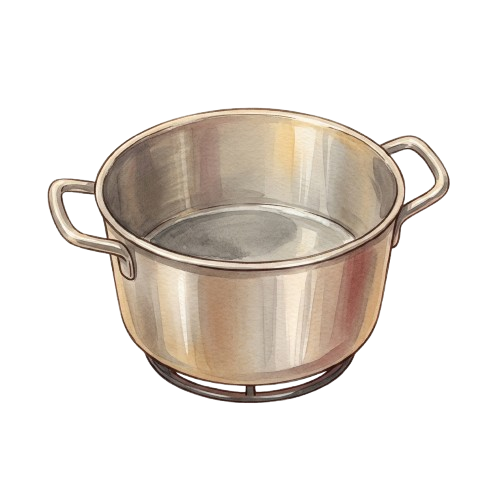
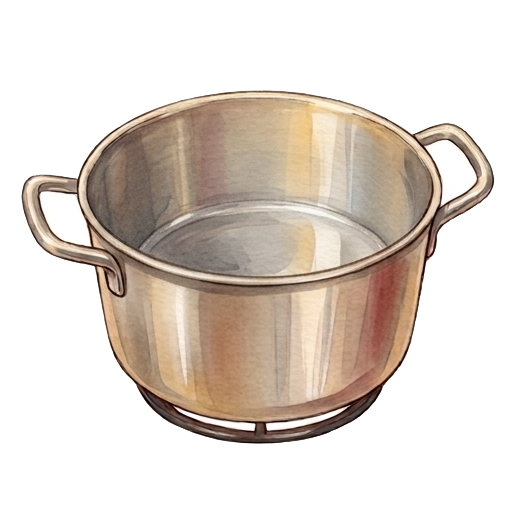
라면 끓이기: 빈 냄비를 같은 구도 그림으로 교체하고 냄비 9장이 장면 폭 92% 한 상자를 공유하도록 배치, 불꽃은 냄비 앞 받침 높이로, 기포·김·반짝임도 % 좌표로 재배치

Changed region(s): [[0.03, 0.15, 0.99, 0.87]]

diff --git a/19.ramen-timing-game.html b/19.ramen-timing-game.html
@@ -145,22 +145,22 @@
   /* 냄비 장면: 200×190 좌표계를 %로 옮긴 이미지 레이어 스택 (아래→위: 불꽃·냄비·물·면·기포·토핑·탐·김) */
   .scene{width:100%;aspect-ratio:200/190;display:block;cursor:pointer;position:relative;overflow:visible}
   .scene img,.scene .layer{position:absolute;display:block;object-fit:contain;pointer-events:none;user-select:none;-webkit-user-drag:none}
-  .scene .potimg{left:6%;top:9%;width:88%;height:82%}   /* 빈 냄비(그림 각도가 달라 상자를 따로 잡음) */
-  /* 물·면·토핑·탐은 내용물까지 그려진 냄비 통짜 그림(pot-water / pot-water-noodle / pot-water-full / pot-burnt)으로
-     빈 냄비 위에 덮어 씌운다. 512 캔버스 안의 냄비가 빈 냄비 그림보다 크게 그려져 있어 상자를 따로 잡아 크기를 맞춘다 */
-  .scene .state{left:19.75%;top:19.5%;width:60.5%;height:63.7%;display:none}   /* 한 번에 한 장만 보인다(JS 가 고른다) */
-  .scene .state.row2{top:20.6%}   /* 시트 아랫줄 그림은 9px 위에 그려져 있어 보정 */
+  /* 냄비 그림 9장은 모두 같은 512 캔버스·같은 구도라 한 상자를 공유한다. 장면 폭에 거의 꽉 차게 잡아
+     카드가 작은 기기에서도 냄비가 작아 보이지 않게 하고, 모든 위치는 % 라 기기 크기와 무관하게 같은 비율을 유지한다 */
+  .scene .state{left:4%;top:12%;width:92%;height:96.8%;display:none}   /* 한 번에 한 장만 보인다(JS 가 고른다) */
+  .scene .state.row2{top:13.7%}   /* 시트 아랫줄 그림은 9px 위에 그려져 있어 보정 */
   /* 너무 오래 끓을 때 국물 색이 탁해지는 오버레이 (냄비 입구 타원에만) */
-  .scene .tint{left:29.4%;top:34.8%;width:43.6%;height:17.2%;border-radius:50%;
+  .scene .tint{left:18.7%;top:35.2%;width:66.3%;height:26.1%;border-radius:50%;
     background:var(--tint,transparent);mix-blend-mode:multiply;transition:background .4s}
-  .scene .rimglow{left:28.4%;top:33.8%;width:45.6%;height:19.2%;border-radius:50%;opacity:0;pointer-events:none}
+  .scene .rimglow{left:17.7%;top:34.2%;width:68.3%;height:28.1%;border-radius:50%;opacity:0;pointer-events:none}
   .btns{display:grid;grid-template-columns:1fr 1fr;gap:6px}
   .btns .btn{min-height:44px;padding:0 4px;font-size:13px}
   .btns .btn.done{opacity:.25;text-decoration:line-through}
 
   /* ---------- 불꽃 ---------- */
-  .flame{width:26%;height:30%;bottom:9%;transform-origin:50% 100%;animation:flick .35s ease-in-out infinite alternate}
-  .flame.f1{left:26%}.flame.f2{left:37%;height:36%;animation-duration:.42s;animation-delay:.1s}.flame.f3{left:48%;animation-duration:.3s;animation-delay:.2s}
+  /* 냄비 그림이 장면을 거의 다 덮으므로 불꽃은 냄비 앞(z-index)에서 받침 고리 높이에 낮게 깐다 */
+  .flame{width:24%;height:22%;bottom:-3%;z-index:2;transform-origin:50% 100%;animation:flick .35s ease-in-out infinite alternate}
+  .flame.f1{left:26%}.flame.f2{left:38%;height:26%;animation-duration:.42s;animation-delay:.1s}.flame.f3{left:50%;animation-duration:.3s;animation-delay:.2s}
   @keyframes flick{from{transform:scaleY(.85) skewX(-4deg)}to{transform:scaleY(1.12) skewX(4deg)}}
   .pot.off .flame{opacity:0;transition:opacity .3s}
 
@@ -175,8 +175,8 @@
   @keyframes rise{0%{transform:translateY(0) scale(.5);opacity:0}20%{opacity:.9}100%{transform:translateY(-58px) scale(1.1);opacity:0}}
 
   /* ---------- 김 / 연기 ---------- */
-  .steam{opacity:0;transform-origin:center;width:16%;height:20%;top:18%}
-  .steam.s1{left:32%}.steam.s2{left:44%;top:16%;width:18%}.steam.s3{left:56%}
+  .steam{opacity:0;transform-origin:center;width:20%;height:24%;top:14%}
+  .steam.s1{left:26%}.steam.s2{left:40%;top:11%;width:22%}.steam.s3{left:56%}
   .pot.ready .steam,.pot.late .steam,.pot.burnt .steam{animation:steam 1.4s ease-out infinite}
   .steam.s2{animation-delay:.45s !important}.steam.s3{animation-delay:.9s !important}
   @keyframes steam{0%{transform:translateY(0) scale(.6);opacity:0}30%{opacity:.7}100%{transform:translateY(-48px) scale(1.5);opacity:0}}
@@ -184,7 +184,7 @@
 
   /* ---------- 테두리 반짝 ---------- */
   .pot.ready .rimglow{opacity:1;box-shadow:0 0 0 3px var(--ready),0 0 14px 4px var(--ready);animation:glow .35s ease-in-out infinite alternate}
-  .pot.ready .potimg,.pot.ready .state{filter:drop-shadow(0 0 6px var(--ready))}
+  .pot.ready .state{filter:drop-shadow(0 0 6px var(--ready))}
   @keyframes glow{from{opacity:.5}to{opacity:1}}
   .pot.ready{box-shadow:0 0 0 3px var(--ready)}
   .pot.error{box-shadow:0 0 0 3px var(--bad)}
@@ -343,8 +343,9 @@ function potSVG(i){
   let bubbles = "";
   for (let k=0;k<14;k++){
     const cx = 62 + (k*37)%76, cy = 118 - (k*13)%18, r = 2 + (k%3);
-    const d = r*2.6, left = (cx-d/2)/2, top = (cy-22-d/2)/1.9;
-    bubbles += `<img class="bub" src="${IMG}bubble.png" alt="" width="159" height="159" style="left:${left}%;top:${top}%;width:${d/2}%;height:${d/1.9}%">`;
+    /* 냄비 그림이 장면 폭의 92% 라 x 는 중심(100) 기준 1.52배로 벌리고, y 는 물 표면 높이로 내린다 */
+    const d = r*3.6, left = 50 + (cx-100)*0.76 - d/2, top = (cy-5)/1.9 - d/2;
+    bubbles += `<img class="bub" src="${IMG}bubble.png" alt="" width="159" height="159" style="left:${left}%;top:${top}%;width:${d}%;height:${d*1.05}%">`;
   }
   return `
   <div class="scene" aria-hidden="true">
@@ -353,7 +354,7 @@ function potSVG(i){
     <img class="flame f2" src="${IMG}flame.png" alt="" width="500" height="500">
     <img class="flame f3" src="${IMG}flame.png" alt="" width="500" height="500">
     <!-- 냄비 그림: 상태·재료 조합에 맞는 한 장만 보인다 (data-pic 로 고름). 겹치지 않고 통째로 바뀐다 -->
-    <img class="potimg" data-pic="empty" src="${IMG}pot-empty.png" alt="" width="500" height="500">
+    <img class="state" data-pic="empty" src="${IMG}pot-empty.png" alt="" width="512" height="512">
     <img class="state water" data-pic="water" src="${IMG}pot-water.png" alt="" width="512" height="512">
     <img class="state cooked" data-pic="water-noodle" src="${IMG}pot-water-noodle.png" alt="" width="512" height="512">
     <img class="state topping row2" data-pic="water-full" src="${IMG}pot-water-full.png" alt="" width="512" height="512">
